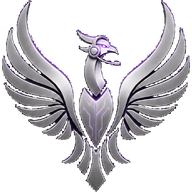
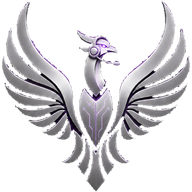
fix(ui): repair the light phoenix cutout and use the mark in the drawer header
The light render is gold on cream, so cutting its background by colour
distance tore the wing tips and left stray strokes across the body. Both
renders are pixel-aligned, so the silhouette is now derived once from the
high-contrast dark render and applied to both colourways, eroded 2px to
drop the colour fringe.

The drawer header tile carries the same mark instead of the generic Bot
icon, and shares the launcher's surface tokens (renamed --assistant-surface*
now that two elements use them).

diff --git a/frontend/src/styles.css b/frontend/src/styles.css
@@ -140,9 +140,9 @@
   --student-hero-button-shadow: 0 9px 24px rgba(42, 34, 28, .16);
   --brand-logo-image: url('/brand/naseeb-light-256.png');
   --assistant-logo-image: url('/brand/ai-light-192.png');
-  --assistant-launcher-bg: var(--accent-deep);
-  --assistant-launcher-bg-hover: var(--accent-contrast);
-  --assistant-launcher-fg: var(--ivory);
+  --assistant-surface: var(--accent-deep);
+  --assistant-surface-hover: var(--accent-contrast);
+  --assistant-surface-fg: var(--ivory);
   --brand-logo-border: var(--accent);
   --brand-logo-shadow: 0 5px 18px var(--accent-shadow);
   --progress-roadmap: #806C54;
@@ -289,9 +289,9 @@
   --student-hero-button-shadow: 0 10px 28px rgba(12, 2, 18, .32);
   --brand-logo-image: url('/brand/naseeb-dark-256.png');
   --assistant-logo-image: url('/brand/ai-dark-192.png');
-  --assistant-launcher-bg: var(--accent);
-  --assistant-launcher-bg-hover: var(--accent-hover);
-  --assistant-launcher-fg: var(--accent-contrast);
+  --assistant-surface: var(--accent);
+  --assistant-surface-hover: var(--accent-hover);
+  --assistant-surface-fg: var(--accent-contrast);
   --brand-logo-border: #A779BC;
   --brand-logo-shadow: 0 0 0 3px rgba(167, 121, 188, .1), 0 8px 24px rgba(8, 1, 12, .48);
   --progress-roadmap: #B783CE;
@@ -665,16 +665,18 @@ select option, select optgroup { color: var(--text); background: var(--control-o
 .screen-time-launcher:hover { color: var(--accent-deep); background: var(--surface-hover); }
 .screen-time-launcher:focus-visible { outline: 3px solid var(--focus-ring); outline-offset: 3px; }
 .screen-time-launcher span { font-size: 10px; font-weight: 800; }
-.assistant-launcher { min-width: 62px; height: 56px; padding: 0 16px; display: flex; align-items: center; justify-content: center; gap: 8px; color: var(--assistant-launcher-fg); background: var(--assistant-launcher-bg); border: 1px solid color-mix(in srgb, var(--assistant-launcher-bg) 72%, var(--border-strong)); border-radius: 18px; box-shadow: var(--shadow-raised); cursor: pointer; transition: transform var(--theme-duration) ease, background-color var(--theme-duration) ease, border-color var(--theme-duration) ease; }
-.assistant-launcher:hover { background: var(--assistant-launcher-bg-hover); transform: translateY(-2px); }
+.assistant-launcher { min-width: 62px; height: 56px; padding: 0 16px; display: flex; align-items: center; justify-content: center; gap: 8px; color: var(--assistant-surface-fg); background: var(--assistant-surface); border: 1px solid color-mix(in srgb, var(--assistant-surface) 72%, var(--border-strong)); border-radius: 18px; box-shadow: var(--shadow-raised); cursor: pointer; transition: transform var(--theme-duration) ease, background-color var(--theme-duration) ease, border-color var(--theme-duration) ease; }
+.assistant-launcher:hover { background: var(--assistant-surface-hover); transform: translateY(-2px); }
 .assistant-launcher:focus-visible { outline: 3px solid var(--focus-ring); outline-offset: 3px; }
 .assistant-launcher > span { font-size: 11px; font-weight: 850; letter-spacing: .08em; }
-.assistant-launcher-mark { width: 30px; height: 30px; flex: none; background: var(--assistant-logo-image) center / contain no-repeat; }
+.assistant-launcher-mark, .assistant-title-mark { flex: none; background: var(--assistant-logo-image) center / contain no-repeat; }
+.assistant-launcher-mark { width: 30px; height: 30px; }
+.assistant-title-mark { width: 24px; height: 24px; }
 .assistant-drawer { position: absolute; right: 0; bottom: 70px; width: min(420px, calc(100vw - 32px)); height: min(700px, calc(100dvh - 118px)); overflow: hidden; display: grid; grid-template-rows: auto auto minmax(0, 1fr) auto auto; background: var(--surface); border: 1px solid var(--border-strong); border-radius: 20px; box-shadow: var(--shadow-modal); }
 .assistant-drawer > header { min-height: 76px; padding: 14px 16px; display: flex; align-items: center; justify-content: space-between; gap: 12px; background: var(--surface); border-bottom: 1px solid var(--border); }
 .assistant-title { min-width: 0; display: flex; align-items: center; gap: 11px; }
 .assistant-title h2 { margin: 3px 0 0; font-size: 19px; }
-.assistant-mark { width: 38px; height: 38px; flex: 0 0 38px; display: grid; place-items: center; color: var(--accent-contrast); background: var(--accent); border-radius: 12px; box-shadow: var(--shadow-card); }
+.assistant-mark { width: 38px; height: 38px; flex: 0 0 38px; display: grid; place-items: center; background: var(--assistant-surface); border-radius: 12px; box-shadow: var(--shadow-card); }
 .assistant-header-actions { display: flex; gap: 7px; }
 .assistant-safety { padding: 10px 14px; display: grid; grid-template-columns: 17px minmax(0, 1fr); align-items: start; gap: 8px; color: var(--success); background: var(--success-bg); border-bottom: 1px solid var(--success-border); font-size: 9px; line-height: 1.5; }
 .assistant-safety span { color: var(--muted); }

diff --git a/frontend/src/App.jsx b/frontend/src/App.jsx
@@ -1,6 +1,6 @@
 import { useCallback, useEffect, useLayoutEffect, useMemo, useRef, useState } from 'react';
 import {
-  Activity, ArrowLeft, Award, BookOpen, Bot, Building2, CheckCircle2,
+  Activity, ArrowLeft, Award, BookOpen, Building2, CheckCircle2,
   CalendarClock, CalendarDays, Check, ChevronRight, ClipboardCheck, Clock3, Compass,
   ContactRound, DollarSign, Download, ExternalLink, Eye, FileText, Filter, Fingerprint, Flag, FolderKanban, Globe2, GraduationCap, Heart, LayoutDashboard,
   LibraryBig, LifeBuoy, ListChecks, LogOut, MapPin, Menu, MessageCircle, MessageSquareText, Moon,
@@ -726,7 +726,7 @@ function AssistantCenter({ user, onOpenScreenTime }) {
 
   return <div className={`assistant-center ${open ? 'open' : ''}`}>
     {open && <section className="assistant-drawer" role="dialog" aria-label={t("Naseeb AI assistant")}>
-      <header><div className="assistant-title"><span className="assistant-mark"><Bot size={18} /></span><div><span className="eyebrow">{t("READ-ONLY GUIDANCE")}</span><h2>{t("Naseeb AI")}</h2></div></div><div className="assistant-header-actions"><button type="button" className="icon-button" onClick={clearConversation} aria-label={t("Clear conversation")} title={t("Clear conversation")}><Trash2 size={16} /></button><button type="button" className="icon-button" onClick={() => setOpen(false)} aria-label={t("Close assistant")}><X size={18} /></button></div></header>
+      <header><div className="assistant-title"><span className="assistant-mark"><span className="assistant-title-mark" aria-hidden="true" /></span><div><span className="eyebrow">{t("READ-ONLY GUIDANCE")}</span><h2>{t("Naseeb AI")}</h2></div></div><div className="assistant-header-actions"><button type="button" className="icon-button" onClick={clearConversation} aria-label={t("Clear conversation")} title={t("Clear conversation")}><Trash2 size={16} /></button><button type="button" className="icon-button" onClick={() => setOpen(false)} aria-label={t("Close assistant")}><X size={18} /></button></div></header>
       <div className="assistant-safety"><ShieldCheck size={15} /><span>{t("Role-scoped context only. Do not share contact, passport, password, or payment details.")}</span></div>
       <div ref={listRef} className="assistant-messages" aria-live="polite" aria-busy={busy}>
         {messages.map((message) => <article className={`assistant-message ${message.role}`} key={message.id}><span>{message.role === 'assistant' ? <Sparkles size={14} /> : initials(fullName(user))}</span><div><b>{message.role === 'assistant' ? t("Naseeb AI") : t("You")}</b><p>{message.content || <span className="assistant-typing" aria-label={t("Assistant is thinking")}><i /><i /><i /></span>}</p></div></article>)}
